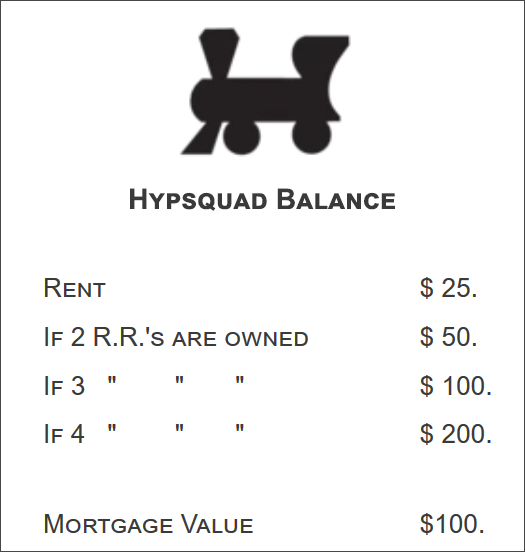
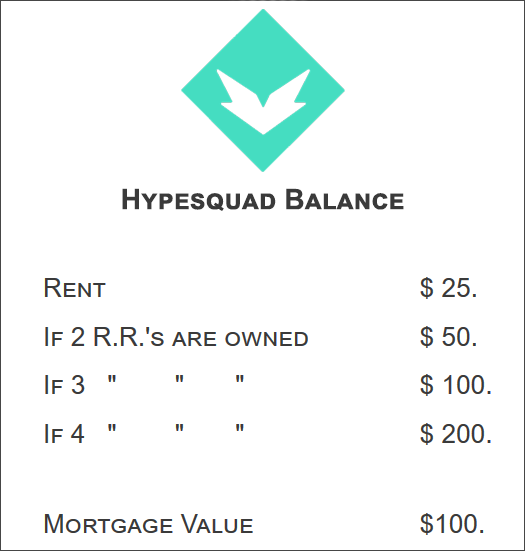
Replaced bad rrs with good rrs

diff --git a/index.js b/index.js
@@ -184,7 +184,7 @@ class Game {
             /* 4 */
             new Property("Nitro Monthly Subscription - Pay $200", 200, "Tax"),
             /* 5 */
-            new Property("Wumpus’ Wonderful Rail", [0, 25, 50, 100, 200], "RR", 200, 100, 0, "https://cdn.discordapp.com/attachments/593554477844529152/593587929331531797/Wumpus_Wonderful_Rail.png"),
+            new Property("Wumpus’ Wonderful Rail", [0, 25, 50, 100, 200], "RR", 200, 100, 0, "https://cdn.discordapp.com/attachments/593554477844529152/593594152441348112/Wumpus_Wonderful_Rail.png"),
             /* 6 */
             new Property("Russian Metro (Light Blue)", [6, 30, 90, 270, 400, 550], "BLUE", 100, 50, 50),
             /* 7 */
@@ -204,7 +204,7 @@ class Game {
             /* 14 */
             new Property("Vanilla Unicorn (Pink)", [12, 60, 180, 500, 700, 900], "LUMINOUS_VIVID_PINK", 160, 80, 100),
             /* 15 */
-            new Property("Hypesquad Bravery", [0, 25, 50, 100, 200], "RR", 200, 100, 0, "https://cdn.discordapp.com/attachments/593554477844529152/593587642575224891/HypesquadBravery.png"),
+            new Property("Hypesquad Bravery", [0, 25, 50, 100, 200], "RR", 200, 100, 0, "https://cdn.discordapp.com/attachments/593554477844529152/593592893718003726/HypesquadBravery.png"),
             /* 16 */
             new Property("Rockport (Orange)", [14, 70, 200, 550, 750, 950], "ORANGE", 180, 90, 100),
             /* 17 */
@@ -224,7 +224,7 @@ class Game {
             /* 24 */
             new Property("Hell (Red)", [20, 100, 300, 750, 925, 1100], "DARK_RED", 240, 120, 150),
             /* 25 */
-            new Property("Hypesquad Brilliance", [0, 25, 50, 100, 200], "RR", 200, 100, 0, "https://cdn.discordapp.com/attachments/593554477844529152/593588213957001219/HypesquadBrilliance.png"),
+            new Property("Hypesquad Brilliance", [0, 25, 50, 100, 200], "RR", 200, 100, 0, "https://cdn.discordapp.com/attachments/593554477844529152/593591813781061699/HypesquadBrilliance.png"),
             /* 26 */
             new Property("Dustbowl (Yellow)", [22, 110, 330, 800, 975, 1150], "GOLD", 260, 130, 150),
             /* 27 */
@@ -244,7 +244,7 @@ class Game {
             /* 34 */
             new Property("Sokrovenno (Green)", [28, 150, 450, 1000, 1200, 1400], "DARK_GREEN", 320, 160, 200),
             /* 35 */
-            new Property("Hypesquad Balance", [0, 25, 50, 100, 200], "RR", 200, 100, 0, "https://cdn.discordapp.com/attachments/593554477844529152/593588493578534939/HypesquadBalance.png"),
+            new Property("Hypesquad Balance", [0, 25, 50, 100, 200], "RR", 200, 100, 0, "https://cdn.discordapp.com/attachments/593554477844529152/593592388803493888/HypesquadBalance.png"),
             /* 36 */
             new Property("Chance", 0, "Chance"),
             /* 37 */
